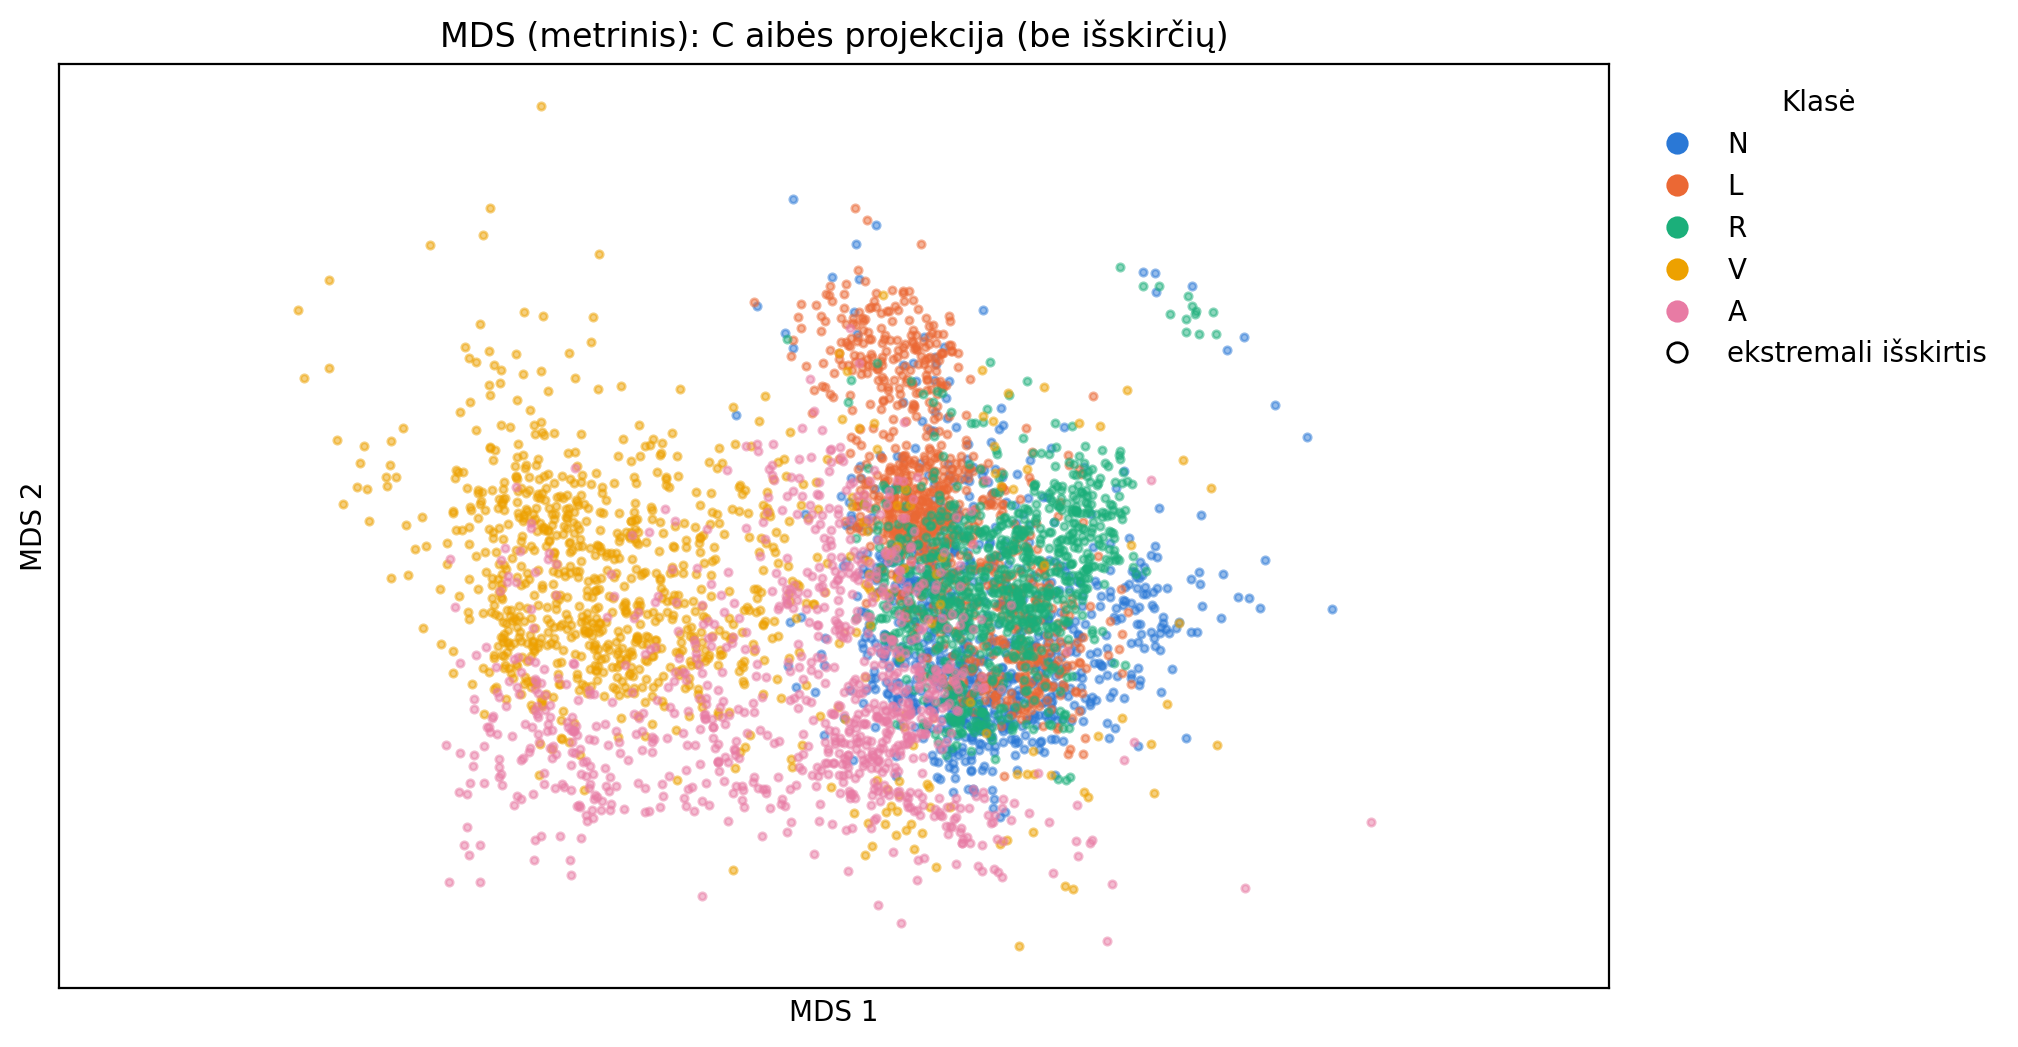
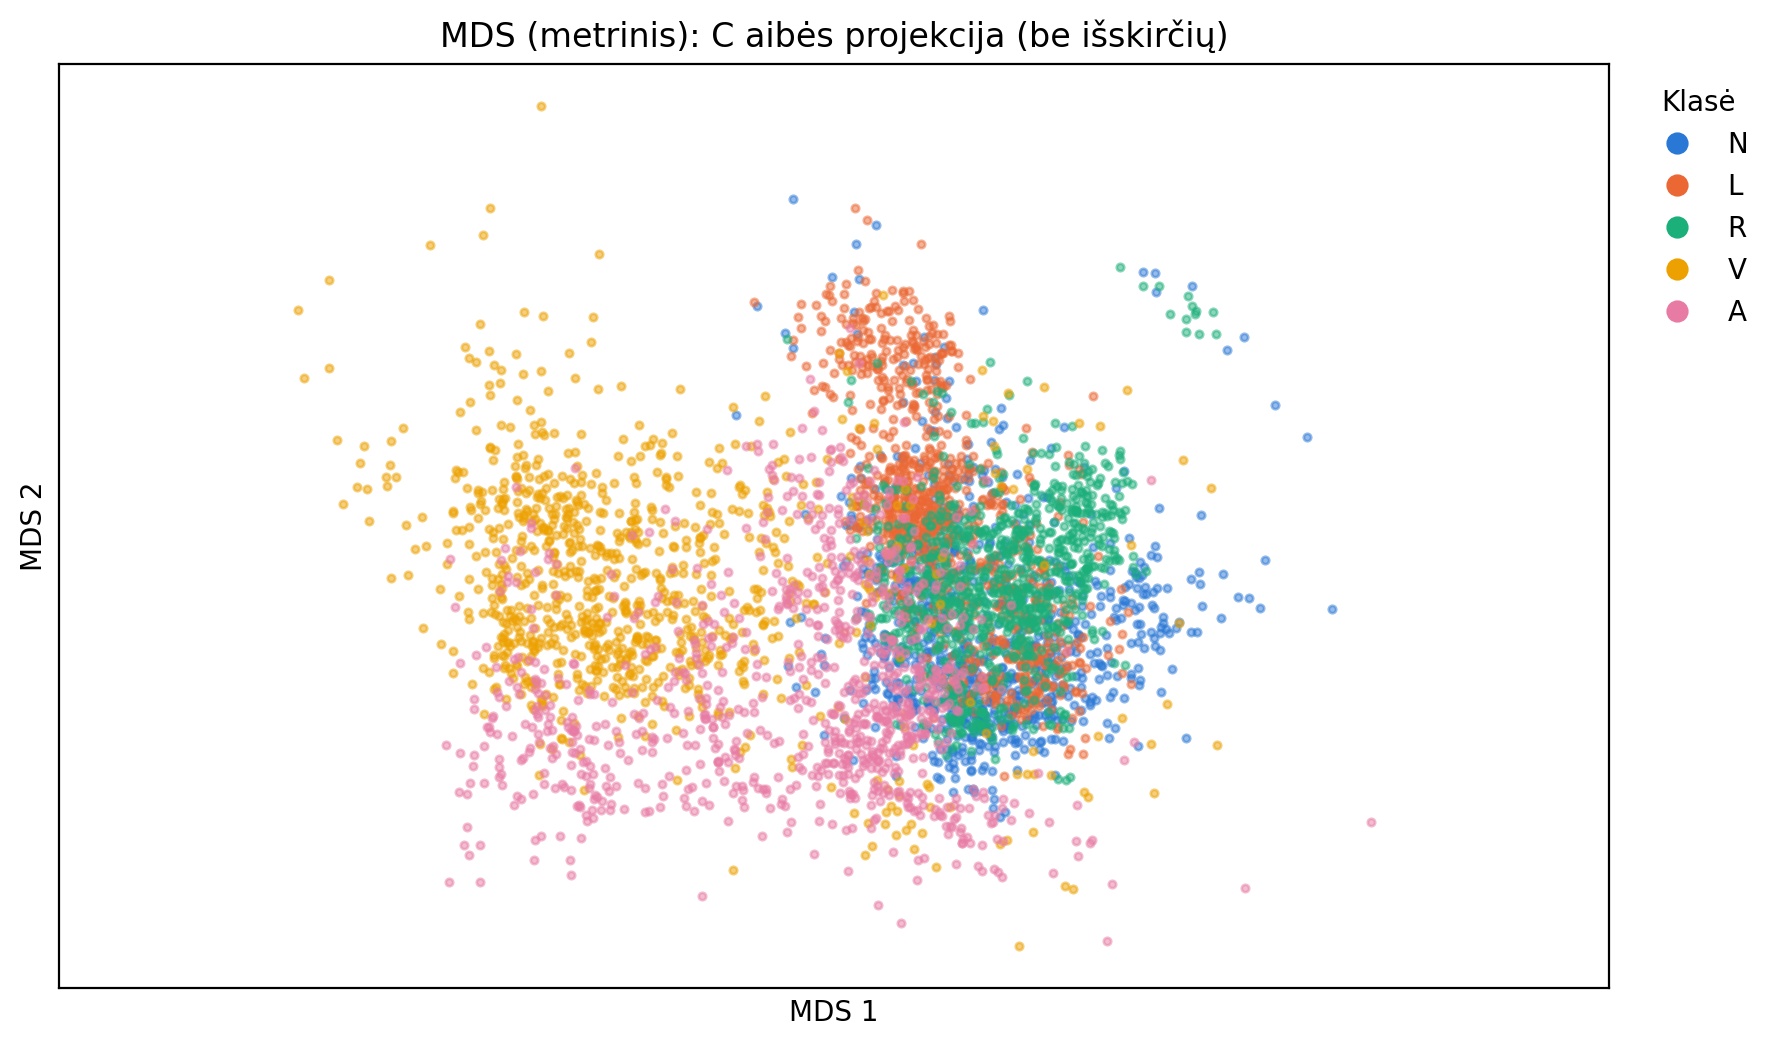
minor changes to MDS graphs

diff --git a/MDS/mds.py b/MDS/mds.py
@@ -62,12 +62,13 @@ def plot_projection(Y, data, title, path):
         ax.scatter(Y[normal, 0], Y[normal, 1], s=7, alpha=0.5, color=COLOURS[cls])
         ax.scatter(Y[outlier, 0], Y[outlier, 1], s=20, color=COLOURS[cls], edgecolors="black")
 
-    # legenda: klasės + išskirties žymėjimas
+    # legenda: klasės + išskirties žymėjimas (tik jei aibėje yra išskirčių, C aibėje jų nėra)
     handles = [plt.Line2D([], [], marker="o", linestyle="", markersize=7,
                           color=COLOURS[cls], label=cls) for cls in CLASSES]
-    handles.append(plt.Line2D([], [], marker="o", linestyle="", markersize=7,
-                              markerfacecolor="white", markeredgecolor="black",
-                              label="ekstremali išskirtis"))
+    if data["ekstremali_isskirtis"].any():
+        handles.append(plt.Line2D([], [], marker="o", linestyle="", markersize=7,
+                                  markerfacecolor="white", markeredgecolor="black",
+                                  label="ekstremali išskirtis"))
 
     ax.set_aspect("equal", adjustable="datalim")
     ax.set_xticks([])
